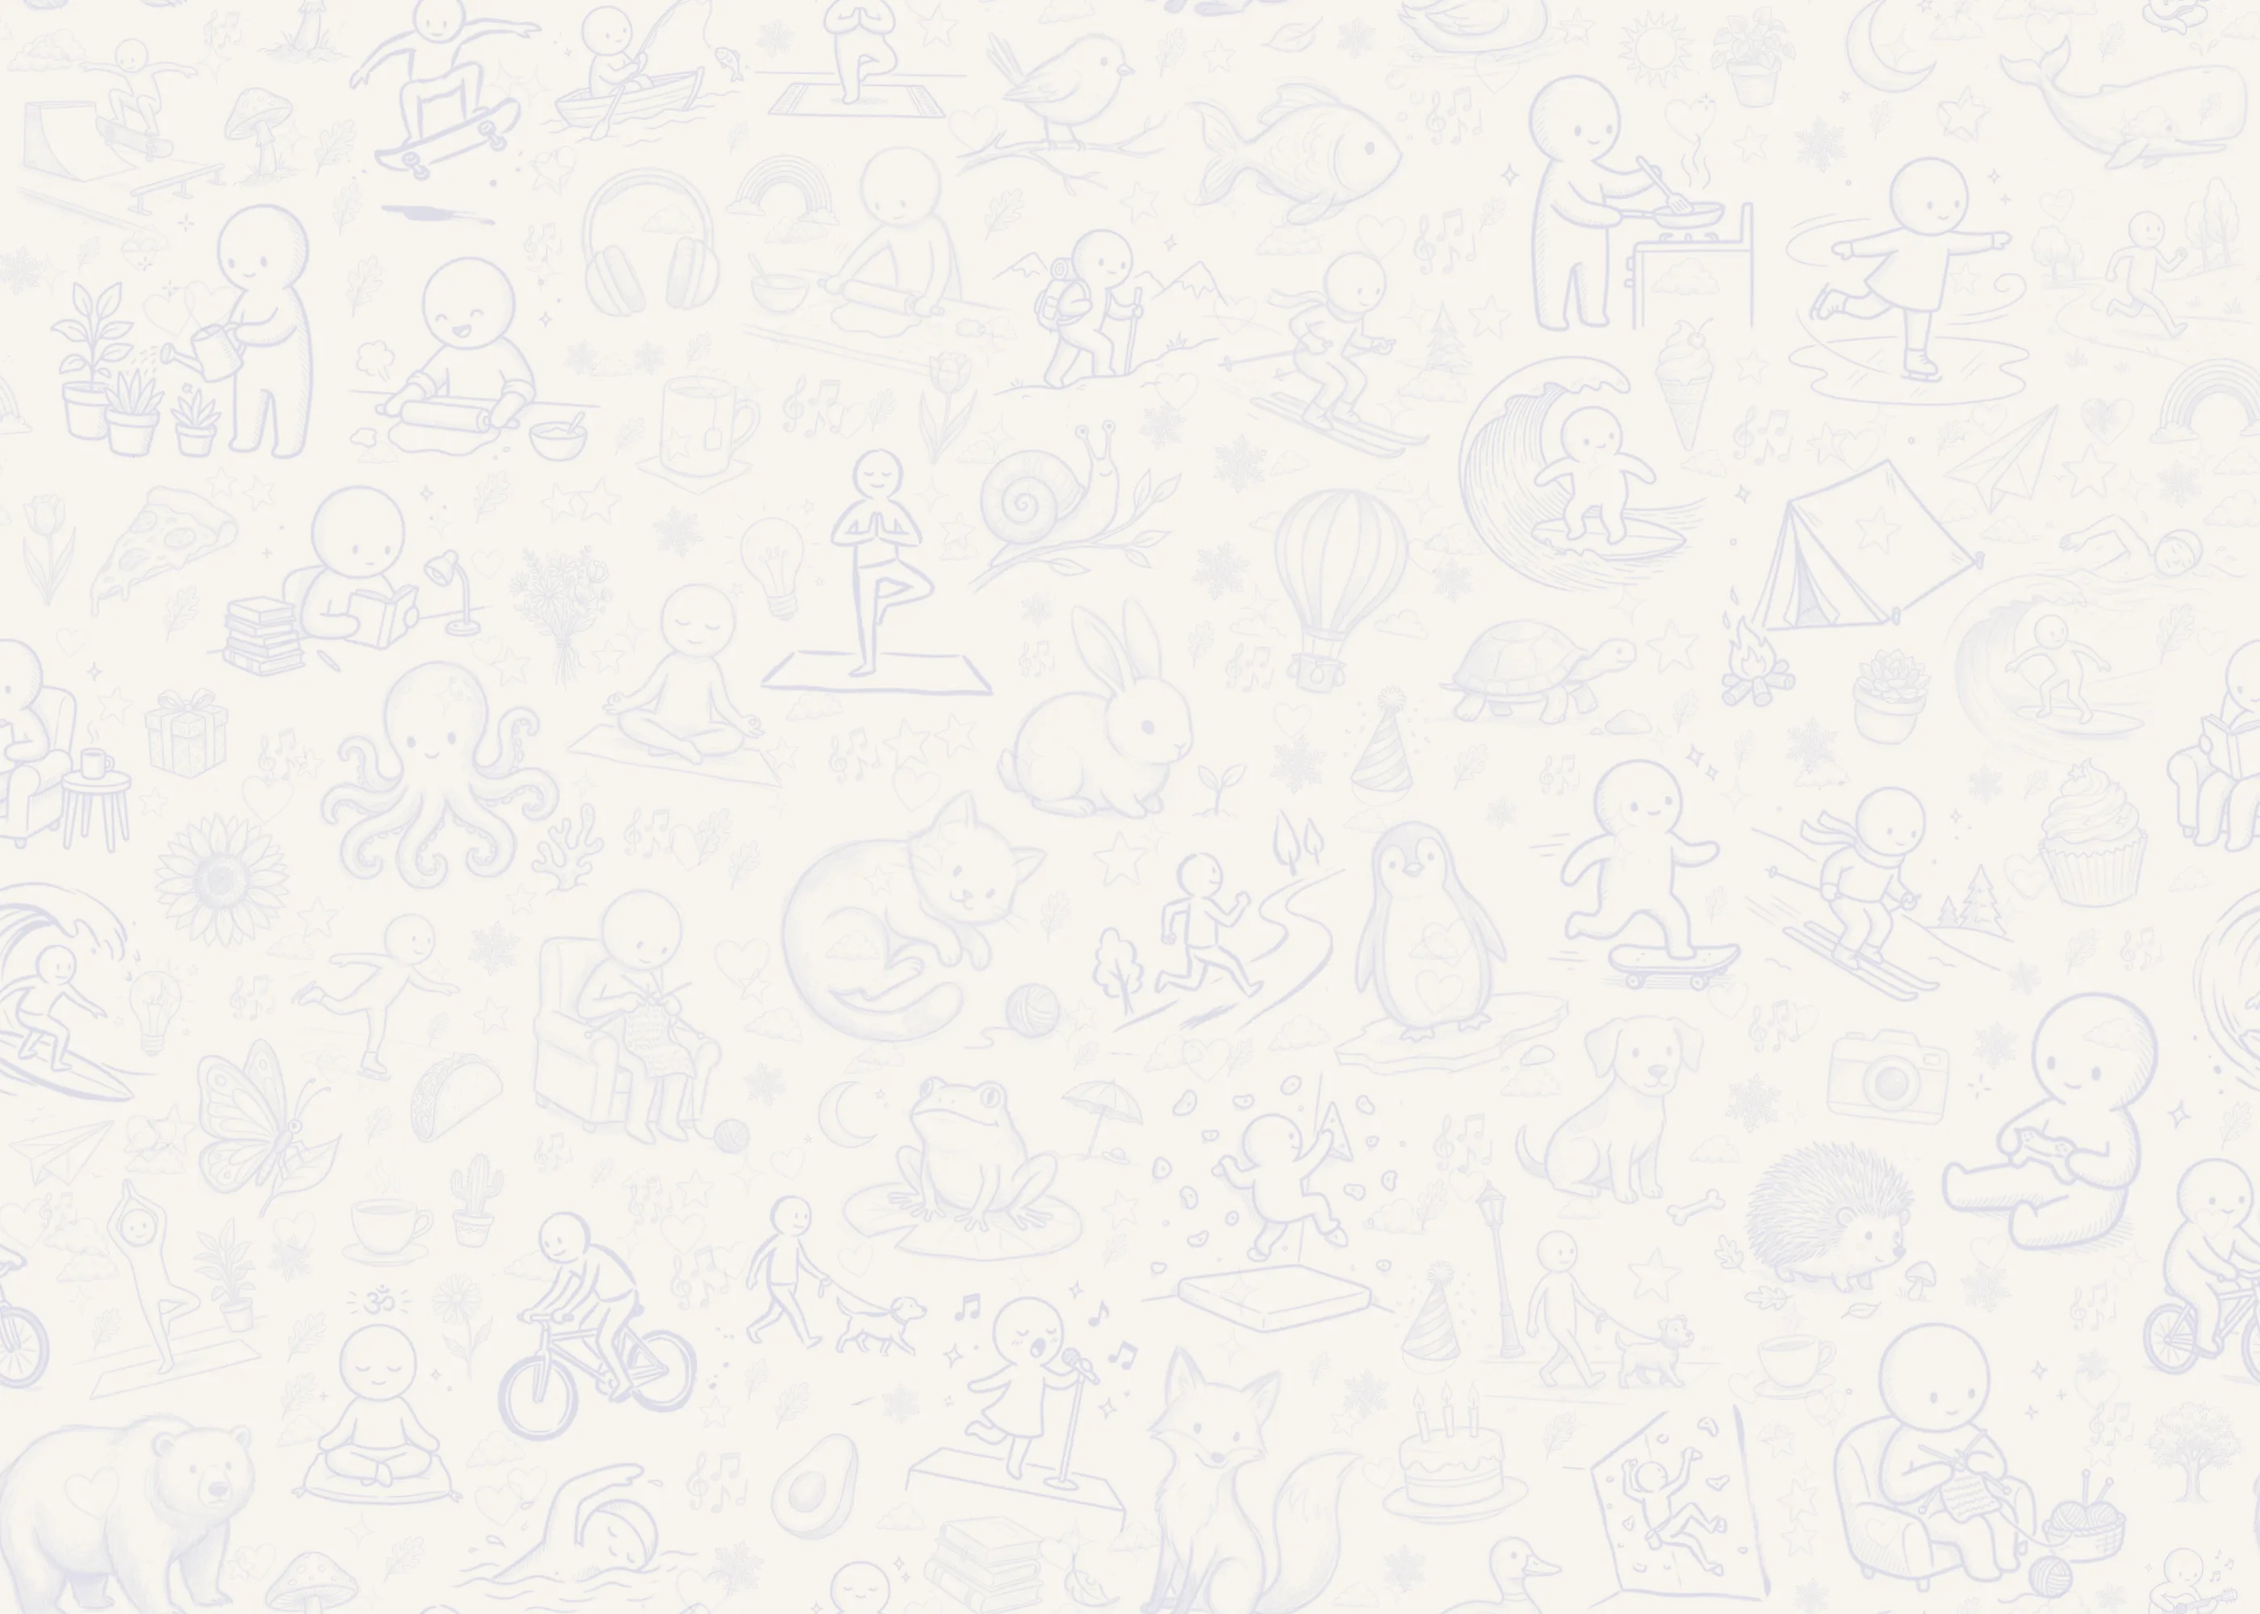
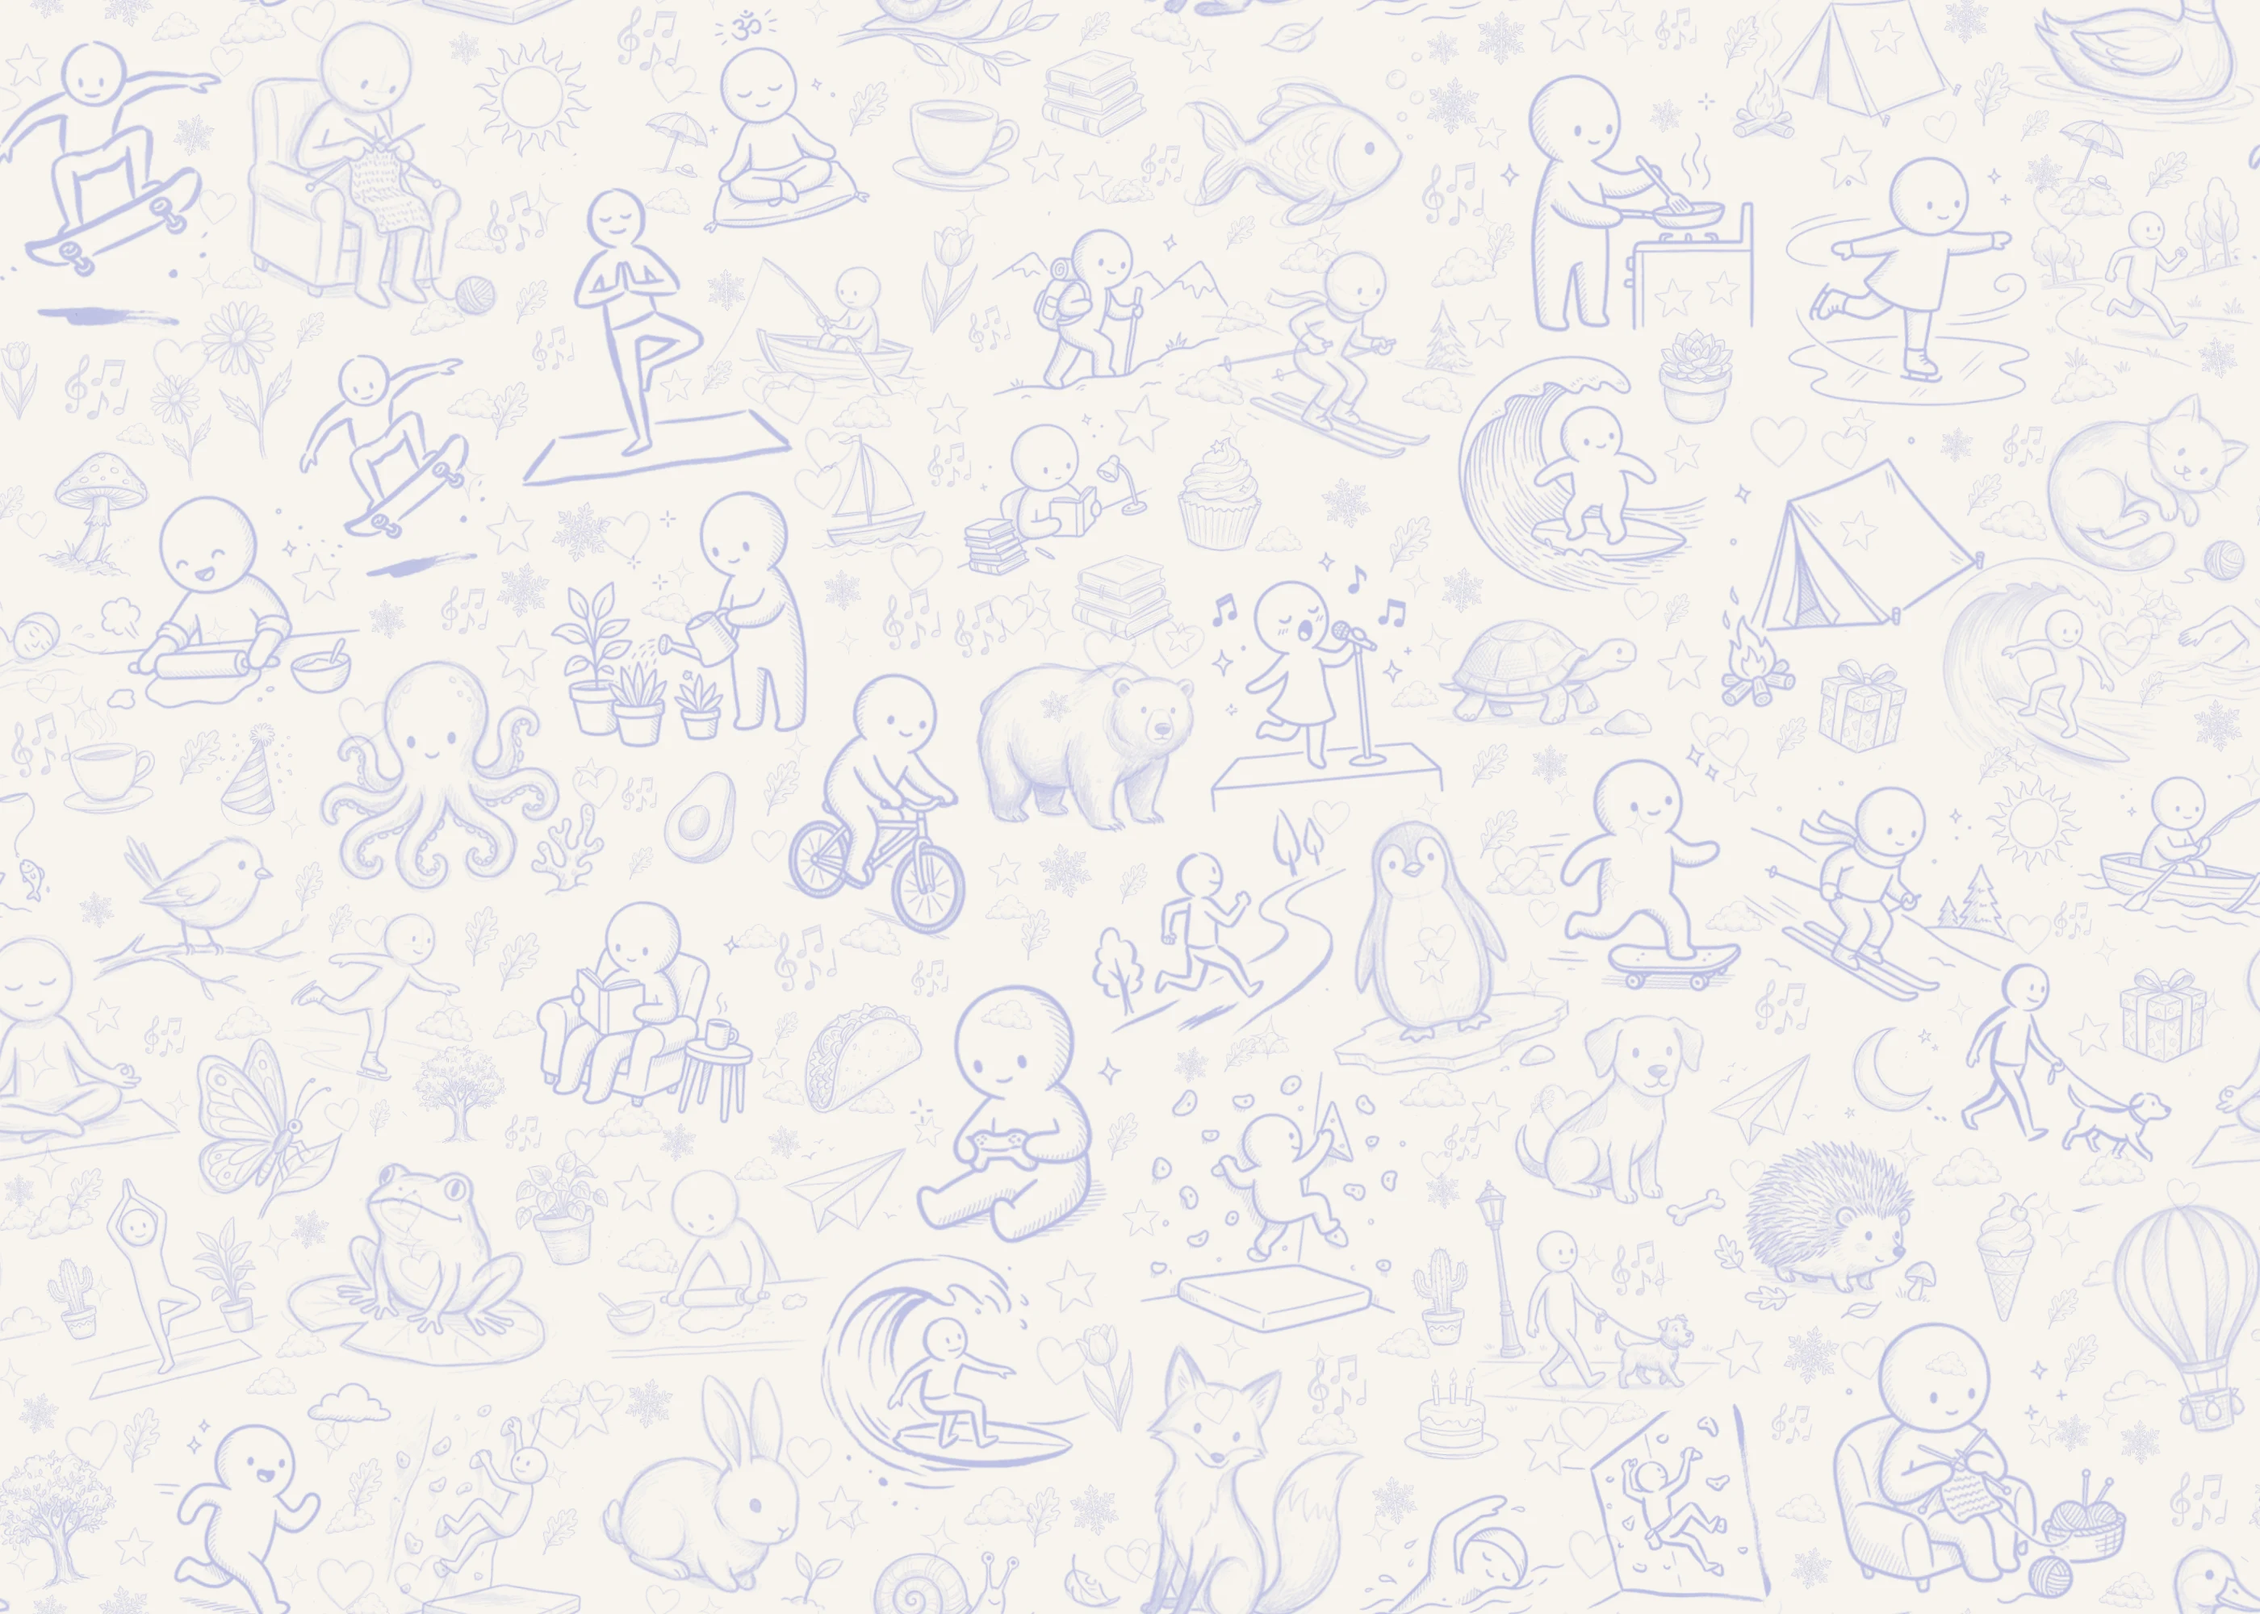
Business: the doodle wall stronger and sharper, closer to /app's
"look low quality and too faint": at 0.14 ink the wall had 45 shades of
grey to /app's 96, and quality 0.82 smeared those. Now 0.30 on Studio and
0.24 on Night (/app: 0.42, 0.32; it stays under, behind text and buttons),
at quality 0.88, with the paper's fibre over it as behind the start dialog.
Scrolling measured the same with and without the fibre. build:doodle-wall
can rebuild named themes only, so /app's walls stay as they are.

diff --git a/src/app/landing/doodleWall.ts b/src/app/landing/doodleWall.ts
@@ -32,11 +32,14 @@ export const WALL_THEMES = {
   dark: { paper: "#0c0c0c", ink: { color: "#8b96ff", alpha: 0.32 } },
   // memari. for businesses (2026-10-31: "add the doodle wall that's behind
   // the /app ... but even lower opacity"): the same pens on the workspace's
-  // own grounds, Studio and Studio Night (business.module.css --bg), about a
-  // third as strong - here the wall sits behind text and buttons, not
-  // behind a dialog.
-  studio: { paper: "#f7f4ee", ink: { color: "#3448ce", alpha: 0.14 } },
-  night: { paper: "#12100e", ink: { color: "#8b96ff", alpha: 0.12 } },
+  // own grounds, Studio and Studio Night (business.module.css --bg). Here the
+  // wall sits behind text and buttons, not behind a dialog, so it stays under
+  // /app's strength - but a third of it was too far (2026-11-01: "look low
+  // quality and too faint"): at 0.14 the wall had 45 shades of grey to /app's
+  // 96, and quality 0.82 smeared those. So: stronger ink, and a higher
+  // quality for the pencil grain to survive on so little contrast.
+  studio: { paper: "#f7f4ee", ink: { color: "#3448ce", alpha: 0.3 }, quality: 0.88 },
+  night: { paper: "#12100e", ink: { color: "#8b96ff", alpha: 0.24 }, quality: 0.88 },
 } as const;
 export type WallTheme = keyof typeof WALL_THEMES;
 
@@ -89,6 +92,8 @@ export type WallInput = {
   /** Whether the tile wraps (a wall that repeats) - or every drawing stays
    *  whole inside it (a sheet of paper). Wraps unless false. */
   wrap?: boolean;
+  /** The WebP's quality, 0.82 unless given. */
+  quality?: number;
 };
 
 export type WallOutput = { url: string; counts: number[]; covered: number };
@@ -286,5 +291,5 @@ export async function packWall(input: WallInput): Promise<WallOutput> {
   }
   let covered = 0;
   for (const c of occ) covered += c;
-  return { url: out.toDataURL("image/webp", 0.82), counts, covered: covered / occ.length };
+  return { url: out.toDataURL("image/webp", input.quality ?? 0.82), counts, covered: covered / occ.length };
 }

diff --git a/src/app/app/business/business.module.css b/src/app/app/business/business.module.css
@@ -150,16 +150,22 @@
 }
 
 /* THE DOODLE WALL (2026-10-31): the start dialog's blue pens behind the
-   coach's workspace, fainter - baked onto --bg itself, so it changes no
+   coach's workspace, under their strength there - baked onto --bg itself, so it changes no
    colour as it arrives (doodleWall.ts studio / night; the layout picks one
    of six). Cards stay solid in front of it. Not on a client's page (.biz
-   alone). */
+   alone). The paper's fibre lies over the wall, ink and all, as behind the
+   start dialog (StartDialog.tsx backdropStyle; 2026-11-01, "a bit more like
+   /app"): one layer on the light ground; an overlay scales with what is
+   under it, so three on the near-black one. */
 .wall {
-  background-image: var(--wall-studio);
-  background-size: var(--wall-size);
+  background-image: url(/landing/paper.jpg), var(--wall-studio);
+  background-size: 256px 256px, var(--wall-size);
+  background-blend-mode: overlay, normal;
 }
 .wall[data-mode="dark"] {
-  background-image: var(--wall-night);
+  background-image: url(/landing/paper.jpg), url(/landing/paper.jpg), url(/landing/paper.jpg), var(--wall-night);
+  background-size: 256px 256px, 256px 256px, 256px 256px, var(--wall-size);
+  background-blend-mode: overlay, overlay, overlay, normal;
 }
 
 /* past the page's ends - an overscroll, a short page - the same ground */

diff --git a/src/app/app/business/layout.tsx b/src/app/app/business/layout.tsx
@@ -32,8 +32,9 @@ export default async function BusinessLayout({ children }: { children: ReactNode
   if (!ctx.owner.guest && (await claimGuestWork(ctx.owner.id)) > 0) ctx = (await currentBusiness())!;
   const { business } = ctx;
   // THE DOODLE WALL (2026-10-31: "add the doodle wall that's behind the /app
-  // ... but even lower opacity"): the start dialog's blue-pen wall, baked
-  // fainter on Studio's and Studio Night's own grounds (doodleWall.ts). One of
+  // ... but even lower opacity"; stronger 2026-11-01: "too faint"): the start
+  // dialog's blue-pen wall, baked under its strength there on Studio's and
+  // Studio Night's own grounds (doodleWall.ts). One of
   // its walls for each coach each day - not a new one each load, as /app has:
   // this layout is drawn again after nearly every save (revalidatePath), and
   // the doodles would jump while the coach works. The coach's workspace only:
